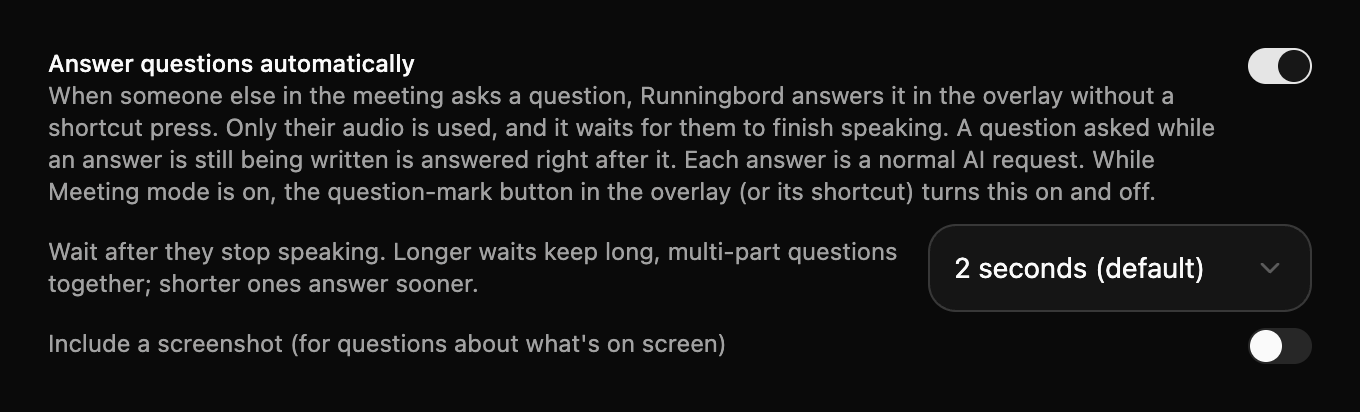
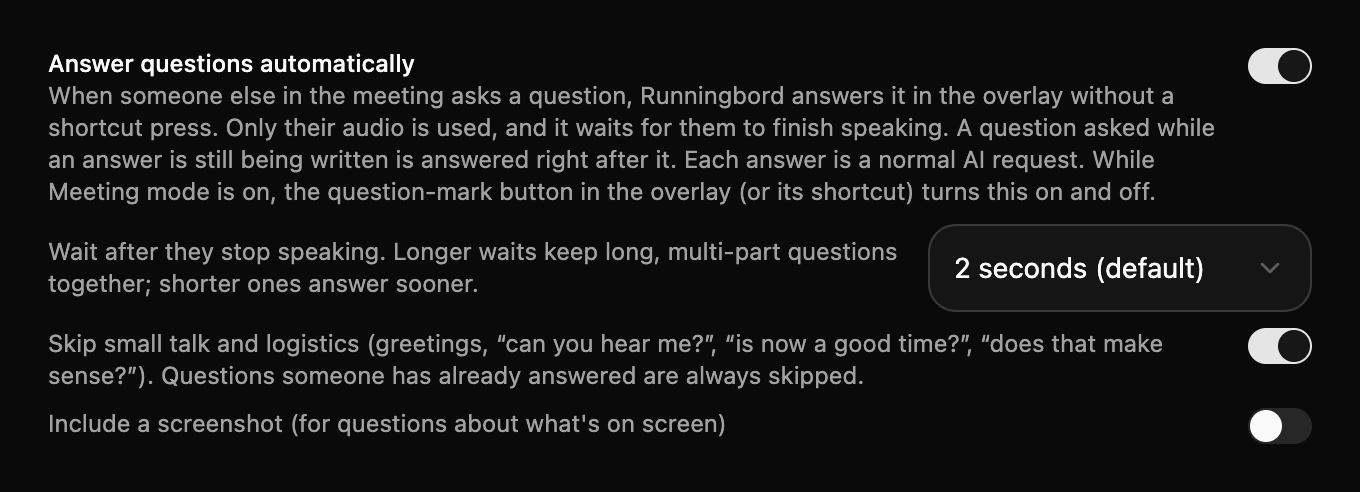
Don't spend auto-answer requests on questions that don't need one
- Skip questions someone already answered: a reply starting "yes",
  "sure", "I am"... or a different voice right after, including when
  question and answer land in one transcribed line (common when both
  sides of a call come through the meeting audio).
- Skip small talk and logistics: greetings and how-are-you, "Is this
  Nolan?", audio/screen checks, "is now a good time?", getting-started
  offers, "does that make sense?". On by default, with a switch.
- If the model still replies "No answer needed", close the panel and
  don't save it.
- Fix transcript offsets sent to the AI: epoch milliseconds were
  subtracted as f32, which rounds to ~2 minutes, so every line read
  "[-0s]".

Checked against the real interview chat that prompted this: all seven
unneeded requests are now skipped, and every question in the test
meeting is still answered.

Claude-Session: https://claude.ai/code/session_016id74tRzJcCJZUPxf2a6vh

diff --git a/src/lib/functions/question-detect.function.ts b/src/lib/functions/question-detect.function.ts
@@ -5,6 +5,73 @@ const QUESTION_START =
 const NOT_A_QUESTION =
   /^(right|okay|ok|yeah|yes|no|really|you know|make sense|does that make sense|can you hear me|am i audible|is that clear|any questions|sorry|hello|hi|what)\??$/i;
 
+/**
+ * Questions that keep a conversation going but don't need a prepared answer:
+ * greetings, checking who's on the line, audio/screen checks, scheduling and
+ * setup, and "does that make sense?"-style confirmations.
+ */
+const SMALL_TALK = [
+  // Greetings and how-are-you.
+  /^(hi|hey|hello|good (morning|afternoon|evening))\b.{0,40}\bhow (are|r) (you|u|things)\b/,
+  /^how (are|r) (you|u|things)( doing| going)?( today| this (morning|afternoon|evening))?$/,
+  /^how('s| is) (it going|everything|your day|your (morning|afternoon|week|weekend))\b/,
+  /^how (was|were) your (day|morning|weekend|week|trip|holiday|vacation)\b/,
+  /^(are you|you) (doing )?(well|good|ok|okay|alright)$/,
+  /^(nice|good|great|lovely) to (meet|see|talk to) you\b/,
+  // Who's on the line ("Is this Nolan?" is matched separately, by the capital).
+  /^(is that|is it) (you|me)$/,
+  // Audio, video and screen checks.
+  /\bcan (you|everyone|everybody) (hear|see) (me|us|it|this|that|my screen|the screen|what i)\b/,
+  /\b(do|did|can) you see (it|that|this|what i|my|the (screen|link|editor|doc|document|message|chat))\b/,
+  /\bis (my|the) (audio|video|screen|mic|microphone|camera|connection|sound)\b/,
+  /\b(am i|are you) (on mute|muted|audible|breaking up|frozen)\b/,
+  /\bmake sure (that )?(i|you|we) can (see|hear)\b/,
+  /\b(can|could) you (just )?(type|write) (something|anything|hello|hi)\b/,
+  /\b(did|have) you (get|got|receive|see) (the|my) (link|invite|email|message|calendar)\b/,
+  /\b(are you|you're) (next to|near|at|on) (a |your )?(computer|laptop|desk|keyboard)\b/,
+  // Scheduling and getting started.
+  /\bis (now|this|it) (still )?(a )?(good|okay|ok|fine|convenient) time\b/,
+  /\b(do you|you) (still )?have (a (minute|moment|second|few minutes)|time)\b/,
+  /^(are you|you) (ready|all set|set)( to (start|begin|go|get started))?$/,
+  /^(shall|should|can|could) (we|i) (get started|start|begin|go ahead|kick off|jump in|dive in)\b/,
+  /^(why don't|what if) (i|we) (go ahead|start|begin|just|read|share|send|jump|kick)\b/,
+  /^(mind if|do you mind if) i\b/,
+  // Confirmations and check-ins.
+  /^(does|did) (that|this|it) (make sense|sound (good|ok|okay|right|fair)|work( for you)?)$/,
+  /^(sound|sounds) (good|ok|okay|right|fair)$/,
+  /^(is that|that) (ok|okay|alright|fine|clear|cool)( with you)?$/,
+  /^any (questions|thoughts)( so far| before we (start|begin|move on))?$/,
+  /^(are you|you) (still )?(there|with me)$/,
+  /^(can|could) you repeat (that|the question)$/,
+];
+
+/** Start of a reply, meaning the question was answered before we could. */
+const ANSWER_START =
+  /^(yes|yeah|yep|yup|yea|sure|no|nope|nah|of course|absolutely|definitely|certainly|sounds good|sounds great|great|perfect|awesome|okay|ok|alright|all right|got it|i am|i'm|i do|i can|i see|i did|i have|we are|we do|we can|hey|hi|hello|thanks|thank you|mm-hmm|uh-huh|good|fine|not bad|doing well)\b/;
+
+/** Words people start sentences with that don't change what's being asked. */
+const LEADING_FILLER = /^((so|and|but|okay|ok|alright|all right|well|um|uh|erm|now|right|cool|great|perfect|awesome)[,.]?\s+)+/i;
+
+/** "Is this Nolan?" / "Am I speaking with Grace Lee?" (checked before lowercasing). */
+const WHO_IS_THIS = /^([Ii]s this|[Aa]m [Ii] (speaking|talking) (with|to)) [A-Z][a-z]+( [A-Z][a-z]+)?\??$/;
+
+const normalize = (text: string) =>
+  text
+    .toLowerCase()
+    .replace(/^[-–—\s]+/, "")
+    .replace(/[“”"']/g, "'")
+    .replace(/[?.!,;:]+$/g, "")
+    .replace(/\s+/g, " ")
+    .trim()
+    .replace(LEADING_FILLER, "");
+
+/** Split a transcript line into sentences, keeping their punctuation. */
+const sentences = (text: string) =>
+  text
+    .split(/(?<=[.?!])\s+/)
+    .map((s) => s.trim())
+    .filter(Boolean);
+
 /** Whether a finished transcript line reads like a question worth answering. */
 export function looksLikeQuestion(text: string): boolean {
   const line = text.trim().replace(/^[-–—\s]+/, "");
@@ -14,9 +81,24 @@ export function looksLikeQuestion(text: string): boolean {
   return QUESTION_START.test(line) && words.length >= 5;
 }
 
+/** Greetings, logistics and check-ins that don't need a prepared answer. */
+export function isSmallTalk(question: string): boolean {
+  const asSaid = question.trim().replace(/^[-–—\s]+/, "").replace(LEADING_FILLER, "");
+  if (WHO_IS_THIS.test(asSaid)) return true;
+  const q = normalize(question);
+  return SMALL_TALK.some((pattern) => pattern.test(q));
+}
+
+/** Whether a line starts like an answer to what was just asked. */
+export const looksLikeAnswer = (text: string) => ANSWER_START.test(normalize(text));
+
 export interface QuestionDetectorOptions {
   /** Called with the question once the speaker has paused, and when they stopped speaking. */
   onQuestion: (question: string, endedAt: number) => void;
+  /** Called instead when a question is dropped, with the reason (for logging). */
+  onSkip?: (question: string, reason: "answered" | "small talk") => void;
+  /** Skip greetings, logistics and check-ins. */
+  skipSmallTalk?: boolean;
   /** Silence after the question before answering, so follow-on clauses are included. */
   pauseMs?: number;
   /** Safety cap against noisy audio: most answers in any 60 seconds. */
@@ -26,17 +108,38 @@ export interface QuestionDetectorOptions {
 /**
  * Watches finished lines from other participants and fires once a question has
  * been asked and they've stopped talking. Lines that continue a pending
- * question are appended to it.
+ * question are appended to it. A question is dropped when someone answers it
+ * first (a reply starting "yes", "sure", "I am"…, or a different voice), or
+ * when it's small talk.
  */
 export function createQuestionDetector({
   onQuestion,
+  onSkip,
+  skipSmallTalk = true,
   pauseMs = 1800,
   maxPerMinute = 6,
 }: QuestionDetectorOptions) {
+  /** Question sentences, then any context that followed from the same speaker. */
   let pending: string[] = [];
+  let questions: string[] = [];
+  let pendingSpeaker: string | undefined;
   let timer: ReturnType<typeof setTimeout> | undefined;
   let fired: number[] = [];
   let quietSinceLast = 0;
+
+  const reset = () => {
+    clearTimeout(timer);
+    timer = undefined;
+    pending = [];
+    questions = [];
+    pendingSpeaker = undefined;
+  };
+
+  const drop = (reason: "answered" | "small talk") => {
+    const question = pending.join(" ").trim();
+    reset();
+    if (question) onSkip?.(question, reason);
+  };
 
   const fire = () => {
     timer = undefined;
@@ -47,9 +150,10 @@ export function createQuestionDetector({
       timer = setTimeout(fire, fired[0] + 60_000 - now);
       return;
     }
+    if (pending.length === 0) return;
+    if (skipSmallTalk && questions.every(isSmallTalk)) return drop("small talk");
     const question = pending.join(" ").trim();
-    pending = [];
-    if (!question) return;
+    reset();
     fired.push(now);
     onQuestion(question, quietSinceLast);
   };
@@ -65,16 +169,41 @@ export function createQuestionDetector({
     /**
      * A finished line from another participant. `endedAt` (ms since epoch) is
      * when they stopped speaking: transcription takes a moment, so part of the
-     * pause has usually passed by the time the line arrives.
+     * pause has usually passed by the time the line arrives. `speaker` is the
+     * voice label when speakers are told apart.
      */
-    line(text: string, endedAt = Date.now()) {
-      if (looksLikeQuestion(text)) {
-        pending.push(text.trim());
+    line(text: string, endedAt = Date.now(), speaker?: string) {
+      const parts = sentences(text);
+      if (parts.length === 0) return;
+      let lastQuestion = -1;
+      parts.forEach((part, i) => {
+        if (looksLikeQuestion(part)) lastQuestion = i;
+      });
+
+      if (pending.length > 0) {
+        const otherVoice = Boolean(speaker && pendingSpeaker && speaker !== pendingSpeaker);
+        // Someone replied before we answered (often both sides are in the
+        // meeting audio): leave it.
+        if (lastQuestion < 0 && (otherVoice || looksLikeAnswer(parts[0]))) return drop("answered");
+        if (otherVoice) reset();
+      }
+
+      if (lastQuestion >= 0) {
+        const after = parts.slice(lastQuestion + 1);
+        // Asked and answered within one transcribed line.
+        if (after.length > 0 && looksLikeAnswer(after[0])) {
+          pending.push(...parts.slice(0, lastQuestion + 1));
+          questions.push(parts[lastQuestion]);
+          return drop("answered");
+        }
+        pending.push(...parts);
+        questions.push(...parts.filter(looksLikeQuestion));
+        pendingSpeaker = speaker ?? pendingSpeaker;
         arm(endedAt);
       } else if (pending.length > 0) {
         // They kept talking: keep a little of it with the question (it may be
         // context or a rephrase), but don't let a monologue grow without bound.
-        if (pending.length < 4) pending.push(text.trim());
+        if (pending.length < 6) pending.push(text.trim());
         arm(endedAt);
       }
     },
@@ -83,8 +212,7 @@ export function createQuestionDetector({
       if (pending.length > 0) arm();
     },
     dispose() {
-      clearTimeout(timer);
-      pending = [];
+      reset();
     },
   };
 }

diff --git a/src/hooks/useCompletion.ts b/src/hooks/useCompletion.ts
@@ -625,6 +625,7 @@ export const useCompletion = () => {
       files,
       followUps = true,
       steps,
+      discardIf,
     }: {
       displayPrompt: string;
       userMessage: string;
@@ -635,6 +636,8 @@ export const useCompletion = () => {
       followUps?: boolean;
       /** Timings of the steps that led to this request, for Recent Requests. */
       steps?: { label: string; ms: number }[];
+      /** Answers to throw away instead of saving (the panel closes). */
+      discardIf?: (answer: string) => boolean;
     }) => {
       const resolved = resolveAIProvider(selectedAIProvider, allAiProviders);
       if ("error" in resolved) {
@@ -679,6 +682,10 @@ export const useCompletion = () => {
         }
 
         if (currentRequestIdRef.current !== requestId || signal.aborted) return;
+        if (discardIf?.(splitFollowUps(fullResponse).answer)) {
+          setState((prev) => ({ ...prev, isLoading: false, input: "", response: "" }));
+          return;
+        }
         setState((prev) => ({ ...prev, isLoading: false }));
         setTimeout(() => inputRef.current?.focus(), 100);
 
@@ -1087,6 +1094,8 @@ export const useCompletion = () => {
       audioBase64: audio?.audioBase64,
       files,
       steps,
+      // The prompt lets the model decline; don't keep or show those.
+      discardIf: (answer) => /^no answer needed\.?$/i.test(answer.trim()),
     });
   };
 
@@ -1101,6 +1110,8 @@ export const useCompletion = () => {
     if (!autoAnswerEnabled) return;
     const detector = createQuestionDetector({
       onQuestion: (question, endedAt) => void autoAnswerRef.current(question, endedAt),
+      onSkip: (question, reason) => console.info(`[auto-answer] skipped (${reason}): ${question}`),
+      skipSmallTalk: transcriptionConfig.autoAnswerSkipSmallTalk,
       pauseMs: transcriptionConfig.autoAnswerDelayMs,
     });
     let cancelled = false;
@@ -1111,9 +1122,12 @@ export const useCompletion = () => {
         else unlisteners.push(fn);
       });
     // Only the other participants' audio: the user's own questions aren't answered.
-    subscribe<{ source: string; text: string; endMs: number }>("live-transcript-segment", (segment) => {
-      if (segment.source === "system") detector.line(segment.text, segment.endMs);
-    });
+    subscribe<{ source: string; text: string; endMs: number; speaker?: string }>(
+      "live-transcript-segment",
+      (segment) => {
+        if (segment.source === "system") detector.line(segment.text, segment.endMs, segment.speaker);
+      }
+    );
     subscribe<{ source: string }>("live-transcript-partial", (partial) => {
       if (partial.source === "system") detector.speaking();
     });
@@ -1123,7 +1137,11 @@ export const useCompletion = () => {
       detector.dispose();
       unlisteners.forEach((fn) => fn());
     };
-  }, [autoAnswerEnabled, transcriptionConfig.autoAnswerDelayMs]);
+  }, [
+    autoAnswerEnabled,
+    transcriptionConfig.autoAnswerDelayMs,
+    transcriptionConfig.autoAnswerSkipSmallTalk,
+  ]);
 
   // Quick actions rework the last answer; the conversation history carries it.
   const [actionNotice, setActionNotice] = useState<string | null>(null);

diff --git a/src/pages/meeting/components/TranscriptionSettings.tsx b/src/pages/meeting/components/TranscriptionSettings.tsx
@@ -645,6 +645,19 @@ export const TranscriptionSettings = () => {
                 {config.autoAnswer && (
                   <div className="flex items-start justify-between gap-3">
                     <p className="text-xs text-muted-foreground">
+                      Skip small talk and logistics (greetings, “can you hear me?”, “is now a good
+                      time?”, “does that make sense?”). Questions someone has already answered are
+                      always skipped.
+                    </p>
+                    <Switch
+                      checked={config.autoAnswerSkipSmallTalk}
+                      onCheckedChange={(autoAnswerSkipSmallTalk) => setConfig({ autoAnswerSkipSmallTalk })}
+                    />
+                  </div>
+                )}
+                {config.autoAnswer && (
+                  <div className="flex items-start justify-between gap-3">
+                    <p className="text-xs text-muted-foreground">
                       Include a screenshot (for questions about what's on screen)
                     </p>
                     <Switch

diff --git a/src/lib/storage/transcription.storage.ts b/src/lib/storage/transcription.storage.ts
@@ -28,6 +28,8 @@ export interface TranscriptionConfig {
   autoAnswerScreenshot: boolean;
   /** Silence after a question before answering, so a longer question isn't cut off. */
   autoAnswerDelayMs: number;
+  /** Don't auto-answer greetings, logistics and check-ins ("how are you?", "can you see my screen?"). */
+  autoAnswerSkipSmallTalk: boolean;
   /** Write meeting notes from the live transcript when Meeting mode is turned off. */
   meetingNotes: boolean;
 }
@@ -46,6 +48,7 @@ export const DEFAULT_TRANSCRIPTION_CONFIG: TranscriptionConfig = {
   autoAnswer: false,
   autoAnswerScreenshot: false,
   autoAnswerDelayMs: 2000,
+  autoAnswerSkipSmallTalk: true,
   meetingNotes: false,
 };
 
@@ -86,6 +89,7 @@ export const getTranscriptionConfig = (): TranscriptionConfig => {
       autoAnswerDelayMs: AUTO_ANSWER_DELAYS.includes(parsed.autoAnswerDelayMs)
         ? parsed.autoAnswerDelayMs
         : DEFAULT_TRANSCRIPTION_CONFIG.autoAnswerDelayMs,
+      autoAnswerSkipSmallTalk: parsed.autoAnswerSkipSmallTalk !== false,
       meetingNotes: parsed.meetingNotes === true,
     };
   } catch {

diff --git a/src-tauri/src/live_transcript.rs b/src-tauri/src/live_transcript.rs
@@ -435,6 +435,11 @@ impl Deps {
     }
 }
 
+/// Seconds from `now` to `at` (negative for the past).
+fn offset_seconds(at: u64, now: u64) -> f32 {
+    (at as i64 - now as i64) as f32 / 1000.0
+}
+
 fn offset_to_ms(end_ms: u64, offset_seconds: f32) -> u64 {
     let offset_ms = (-offset_seconds * 1000.0).max(0.0) as u64;
     end_ms.saturating_sub(offset_ms)
@@ -771,8 +776,10 @@ pub async fn live_transcript_get(
 
         let to_segment = |s: &LiveSegment| TranscriptSegment {
             source: s.source,
-            start_offset: (s.start_ms as f32 - now as f32) / 1000.0,
-            end_offset: (s.end_ms as f32 - now as f32) / 1000.0,
+            // Subtract as integers: epoch milliseconds don't fit in an f32
+            // (it rounds them to about two minutes), which made every offset ~0.
+            start_offset: offset_seconds(s.start_ms, now),
+            end_offset: offset_seconds(s.end_ms, now),
             text: s.text.clone(),
             speaker: s.speaker.clone(),
         };
@@ -990,6 +997,13 @@ mod tests {
 #[cfg(test)]
 mod monologue_tests {
     use super::*;
+
+    #[test]
+    fn offsets_keep_millisecond_precision_at_epoch_scale() {
+        let now = 1_790_753_546_450;
+        assert_eq!(offset_seconds(now - 42_500, now), -42.5);
+        assert_eq!(offset_seconds(now - 150, now), -0.15);
+    }
 
     fn seg(source: &'static str, start_ms: u64, end_ms: u64) -> LiveSegment {
         LiveSegment { source, start_ms, end_ms, text: String::new(), speaker: None }

diff --git a/docs/USER_GUIDE.md b/docs/USER_GUIDE.md
@@ -179,6 +179,10 @@ When someone **else** in the meeting asks a question, Runningbord answers it aut
 - It only listens to other people, never your microphone.
 - It waits until they've **finished speaking**. You choose how long to wait (1, 2, 3 or 5 seconds); longer waits keep long, multi-part questions together.
 - If a new question comes in while an answer is still being written, it's answered straight after.
+- It **doesn't spend a request on questions that don't need one**:
+  - questions someone already answered: a reply like "Yes, I am" follows, or a different voice speaks next;
+  - small talk and logistics: "How are you?", "Is this Nolan?", "Can you hear me?", "Is now a good time?", "Can you see my screen?", "Does that make sense?". You can turn this part off with **Skip small talk and logistics**.
+- If the AI still decides there's nothing to answer, the panel closes quietly and nothing is saved.
 - It won't overwrite something you're typing.
 - Optional: **Include a screenshot**, for questions about what's on screen.
 - Each answer is labelled **"Auto-answer: …"** so you know where it came from.
